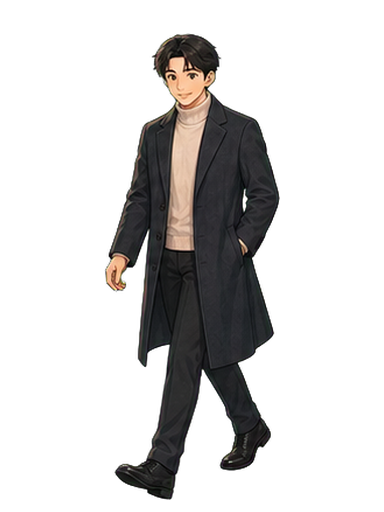
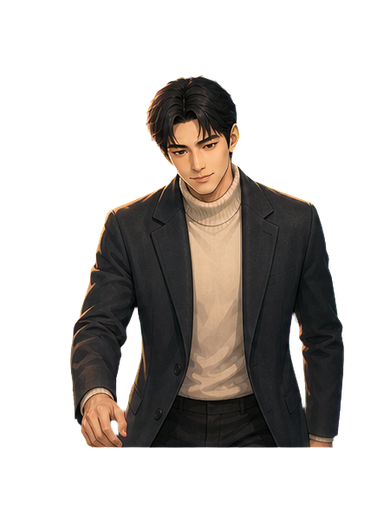
feat: remake Day 5 celebrity art event

diff --git a/src/landscape/kitchen/celebrityArtContract.test.ts b/src/landscape/kitchen/celebrityArtContract.test.ts
@@ -1,0 +1,30 @@
+import { execFileSync } from 'node:child_process'
+import { describe, expect, it } from 'vitest'
+
+interface CelebrityValidation {
+  identities: number
+  emotions: number
+  motionAtlases: number
+  eventKeyArt: number
+  transparentCornersVerified: boolean
+  emotionDiversityVerified: boolean
+  motionGeometryVerified: boolean
+  eventGeometryVerified: boolean
+}
+
+describe('reference-remake Day 5 celebrity art contract', () => {
+  it('exports the approved handsome celebrity across event, emotion and motion art', () => {
+    const result = JSON.parse(execFileSync(process.execPath, [
+      'scripts/art-remake/validate-customer-art.mjs', '--celebrity-only', '--json',
+    ], { encoding: 'utf8' })) as CelebrityValidation
+
+    expect(result.identities).toBe(1)
+    expect(result.emotions).toBe(7)
+    expect(result.motionAtlases).toBe(1)
+    expect(result.eventKeyArt).toBe(1)
+    expect(result.transparentCornersVerified).toBe(true)
+    expect(result.emotionDiversityVerified).toBe(true)
+    expect(result.motionGeometryVerified).toBe(true)
+    expect(result.eventGeometryVerified).toBe(true)
+  })
+})
